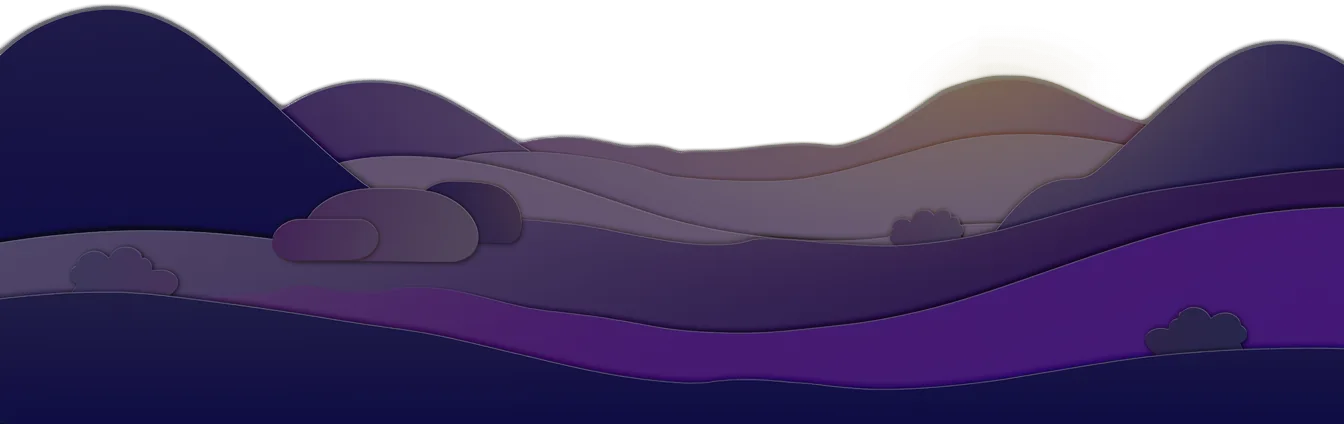
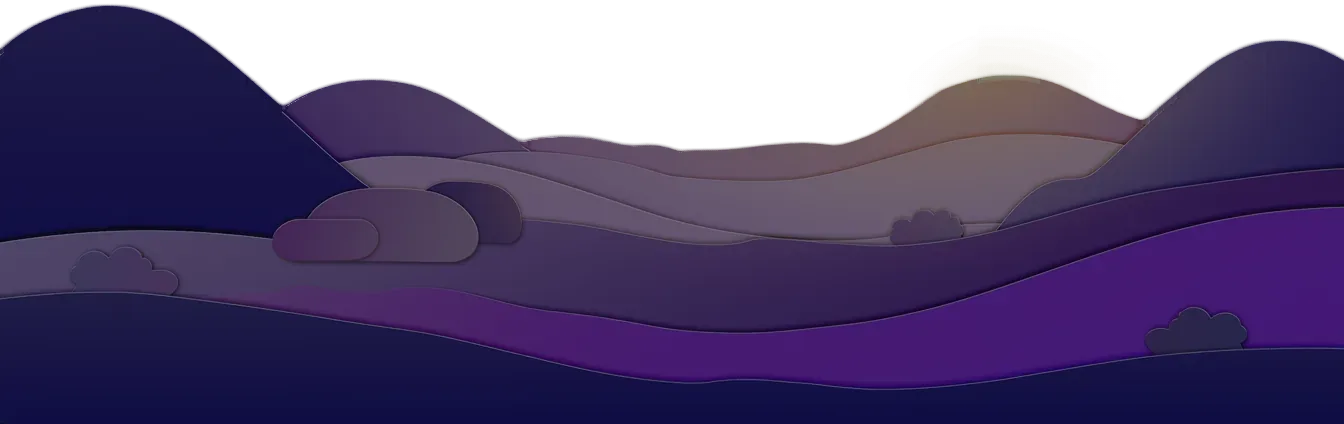
Journey: jackals and wolf larger on the nearer hills; the pale rim along the rocky hills shaded out

diff --git a/src/journey/journey.js b/src/journey/journey.js
@@ -215,7 +215,7 @@
 		if (!p.howl || /rain|storm|sandstorm/.test(p.weather)) return;   // not out howling in the rain
 		var k = dayOf(p.d), st = stretch(k);
 		PIECES.push({night: k, key: 'howl', kind: 'howl', who: p.howl, art: 'jr-howl-' + p.howl, caption: p.howl === 'wolf' ? 'A wolf howls far away' : 'Jackals calling in the night',
-			h: p.howl === 'wolf' ? 40 : 34, layer: 'mid', pass: st[0] + 0.45 * (st[1] - st[0]), off: 380, small: true});
+			h: p.howl === 'wolf' ? 52 : 46, layer: 'mid', pass: st[0] + 0.45 * (st[1] - st[0]), off: 380, small: true});
 	});
 	// far off in the first week: a great snow-capped mountain in the lands of the East, smoking gently
 	PIECES.push({night: 2, key: 'volcano', kind: 'volcano', art: 'jr-far-volcano', caption: '', h: 150, layer: 'far', pass: 2.6, off: 0});
@@ -1014,7 +1014,7 @@
 				ctx.save();
 				if (p.flip) { ctx.translate(x, 0); ctx.scale(-1, 1); ctx.translate(-x, 0); }
 				if (p.kind === 'howl') {
-					// far off in the moonlight: dimmed and cooled to match the distant hills; jackals call in a pair
+					// off on the hills in the moonlight: dimmed and cooled a little to sit in the night; jackals call in a pair
 					ctx.filter = 'brightness(0.78) saturate(0.85) hue-rotate(-6deg)';
 					if (p.who === 'jackal') { ctx.save(); ctx.translate(x - w * 1.25, 0); ctx.scale(-1, 1); ctx.drawImage(im, -w * 0.44, top + h * 0.12, w * 0.88, h * 0.88); ctx.restore(); }   // a second, facing the other way
 					ctx.drawImage(im, x - w / 2, top, w, h);

diff --git a/src/journey/index.html b/src/journey/index.html
@@ -309,14 +309,14 @@ header, .player, .rotate {transition:transform 0.5s ease, opacity 0.5s ease;}
 	</footer>
 
 	<script src="/assets/js/site.js" defer></script>
-	<script src="/journey/camels.js?v=202610241456" defer></script>
-	<script src="/journey/camel-rig.js?v=202610241456" defer></script>
-	<script src="/journey/art-ready.js?v=202610241456" defer></script>
-	<script src="/journey/readings.js?v=202610241456" defer></script>
-	<script src="/journey/pip.js?v=202610241456" defer></script>
-	<script src="/journey/plan.js?v=202610241456" defer></script>
-	<script src="/journey/audio-ready.js?v=202610241456" defer></script>
-	<script src="/journey/sound.js?v=202610241456" defer></script>
-	<script src="/journey/journey.js?v=202610241456" defer></script>
+	<script src="/journey/camels.js?v=202610241501" defer></script>
+	<script src="/journey/camel-rig.js?v=202610241501" defer></script>
+	<script src="/journey/art-ready.js?v=202610241501" defer></script>
+	<script src="/journey/readings.js?v=202610241501" defer></script>
+	<script src="/journey/pip.js?v=202610241501" defer></script>
+	<script src="/journey/plan.js?v=202610241501" defer></script>
+	<script src="/journey/audio-ready.js?v=202610241501" defer></script>
+	<script src="/journey/sound.js?v=202610241501" defer></script>
+	<script src="/journey/journey.js?v=202610241501" defer></script>
 </body>
 </html>
